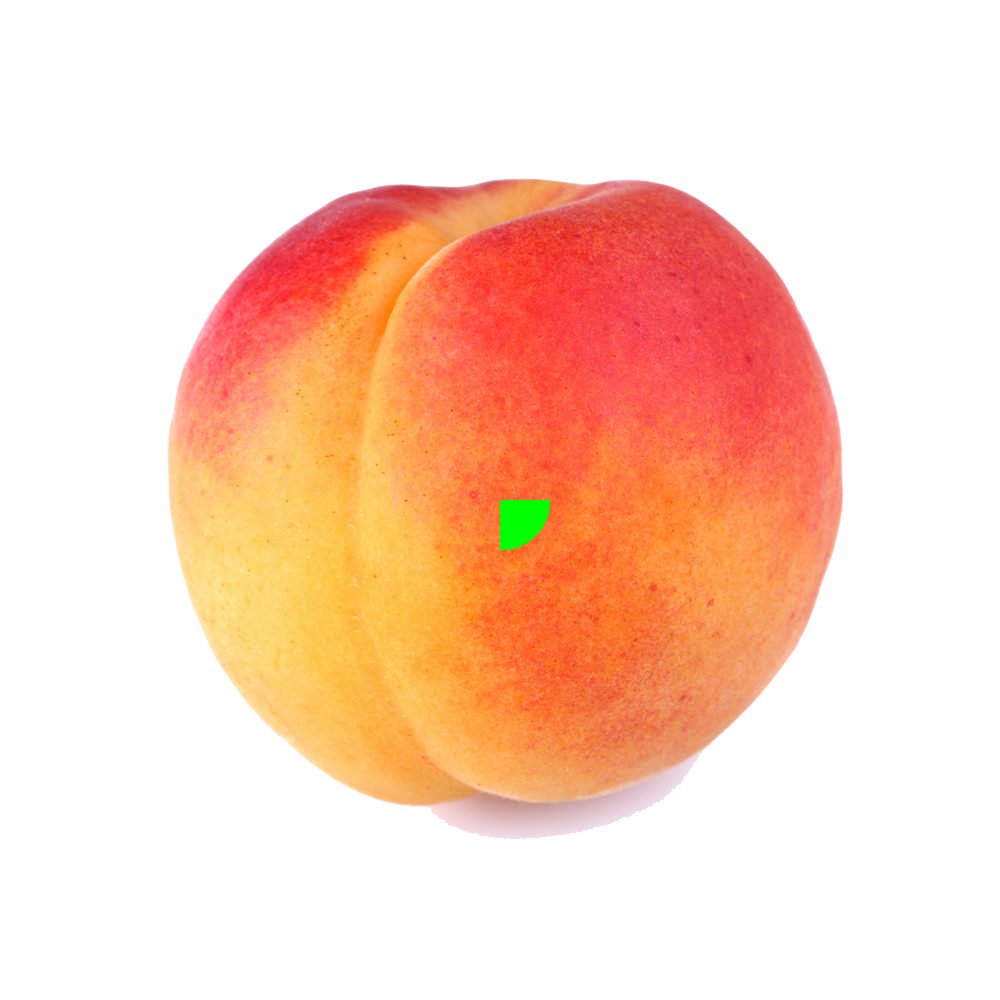
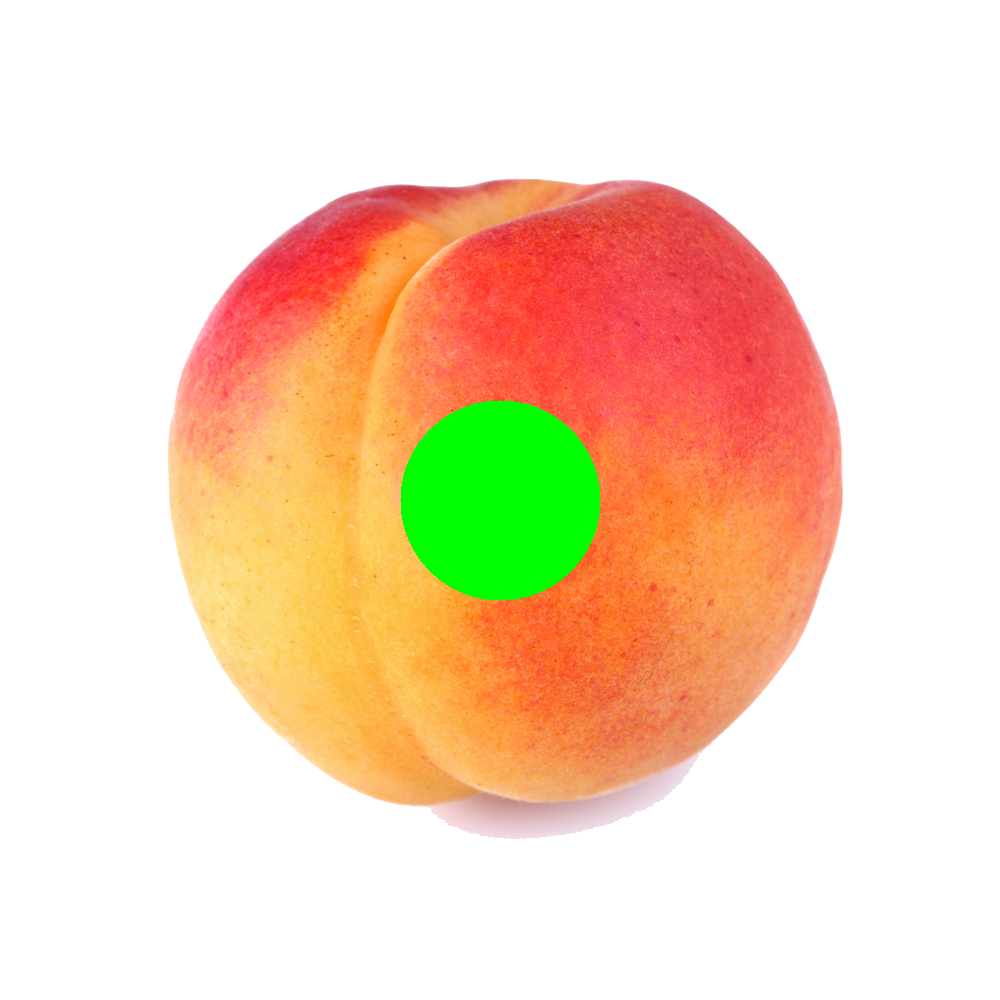
good circle

Changed region(s): [[0.403, 0.403, 0.62, 0.62]]

diff --git a/src/circle.cpp b/src/circle.cpp
@@ -29,10 +29,19 @@ Circle::draw(png::Image &_image) const
                ? this->_center.y() + this->_radius
                : _image.height() - 1;
 
+    std::int64_t __dx, __dy;
     for (std::size_t y = min_y; y <= max_y; y++)
         for (std::size_t x = min_x; x <= max_x; x++)
-            if (std::pow(x - this->_center.x(), 2) + std::pow(y - this->_center.y(), 2) <= std::pow(this->_radius, 2))
-                _image.pixel({x, y}, this->_color);
+        {
+            __dx = x - this->_center.x();
+            __dy = y - this->_center.y();
+
+            if (
+                std::pow(__dx, 2) 
+                + std::pow(__dy, 2) 
+                <= std::pow(this->_radius, 2)
+            ) _image.pixel({x, y}, this->_color);
+        }
 
 }
 

diff --git a/main.cpp b/main.cpp
@@ -8,7 +8,7 @@ int main(int argc, char **argv)
 
     drawing::CircleBuilder circle_builder;
     circle_builder.setup_center({500, 500})
-                  .setup_radius(50)
+                  .setup_radius(100)
                   .setup_color(png::Color(0, 255, 0));
 
     circle_builder.get()->draw(image);
